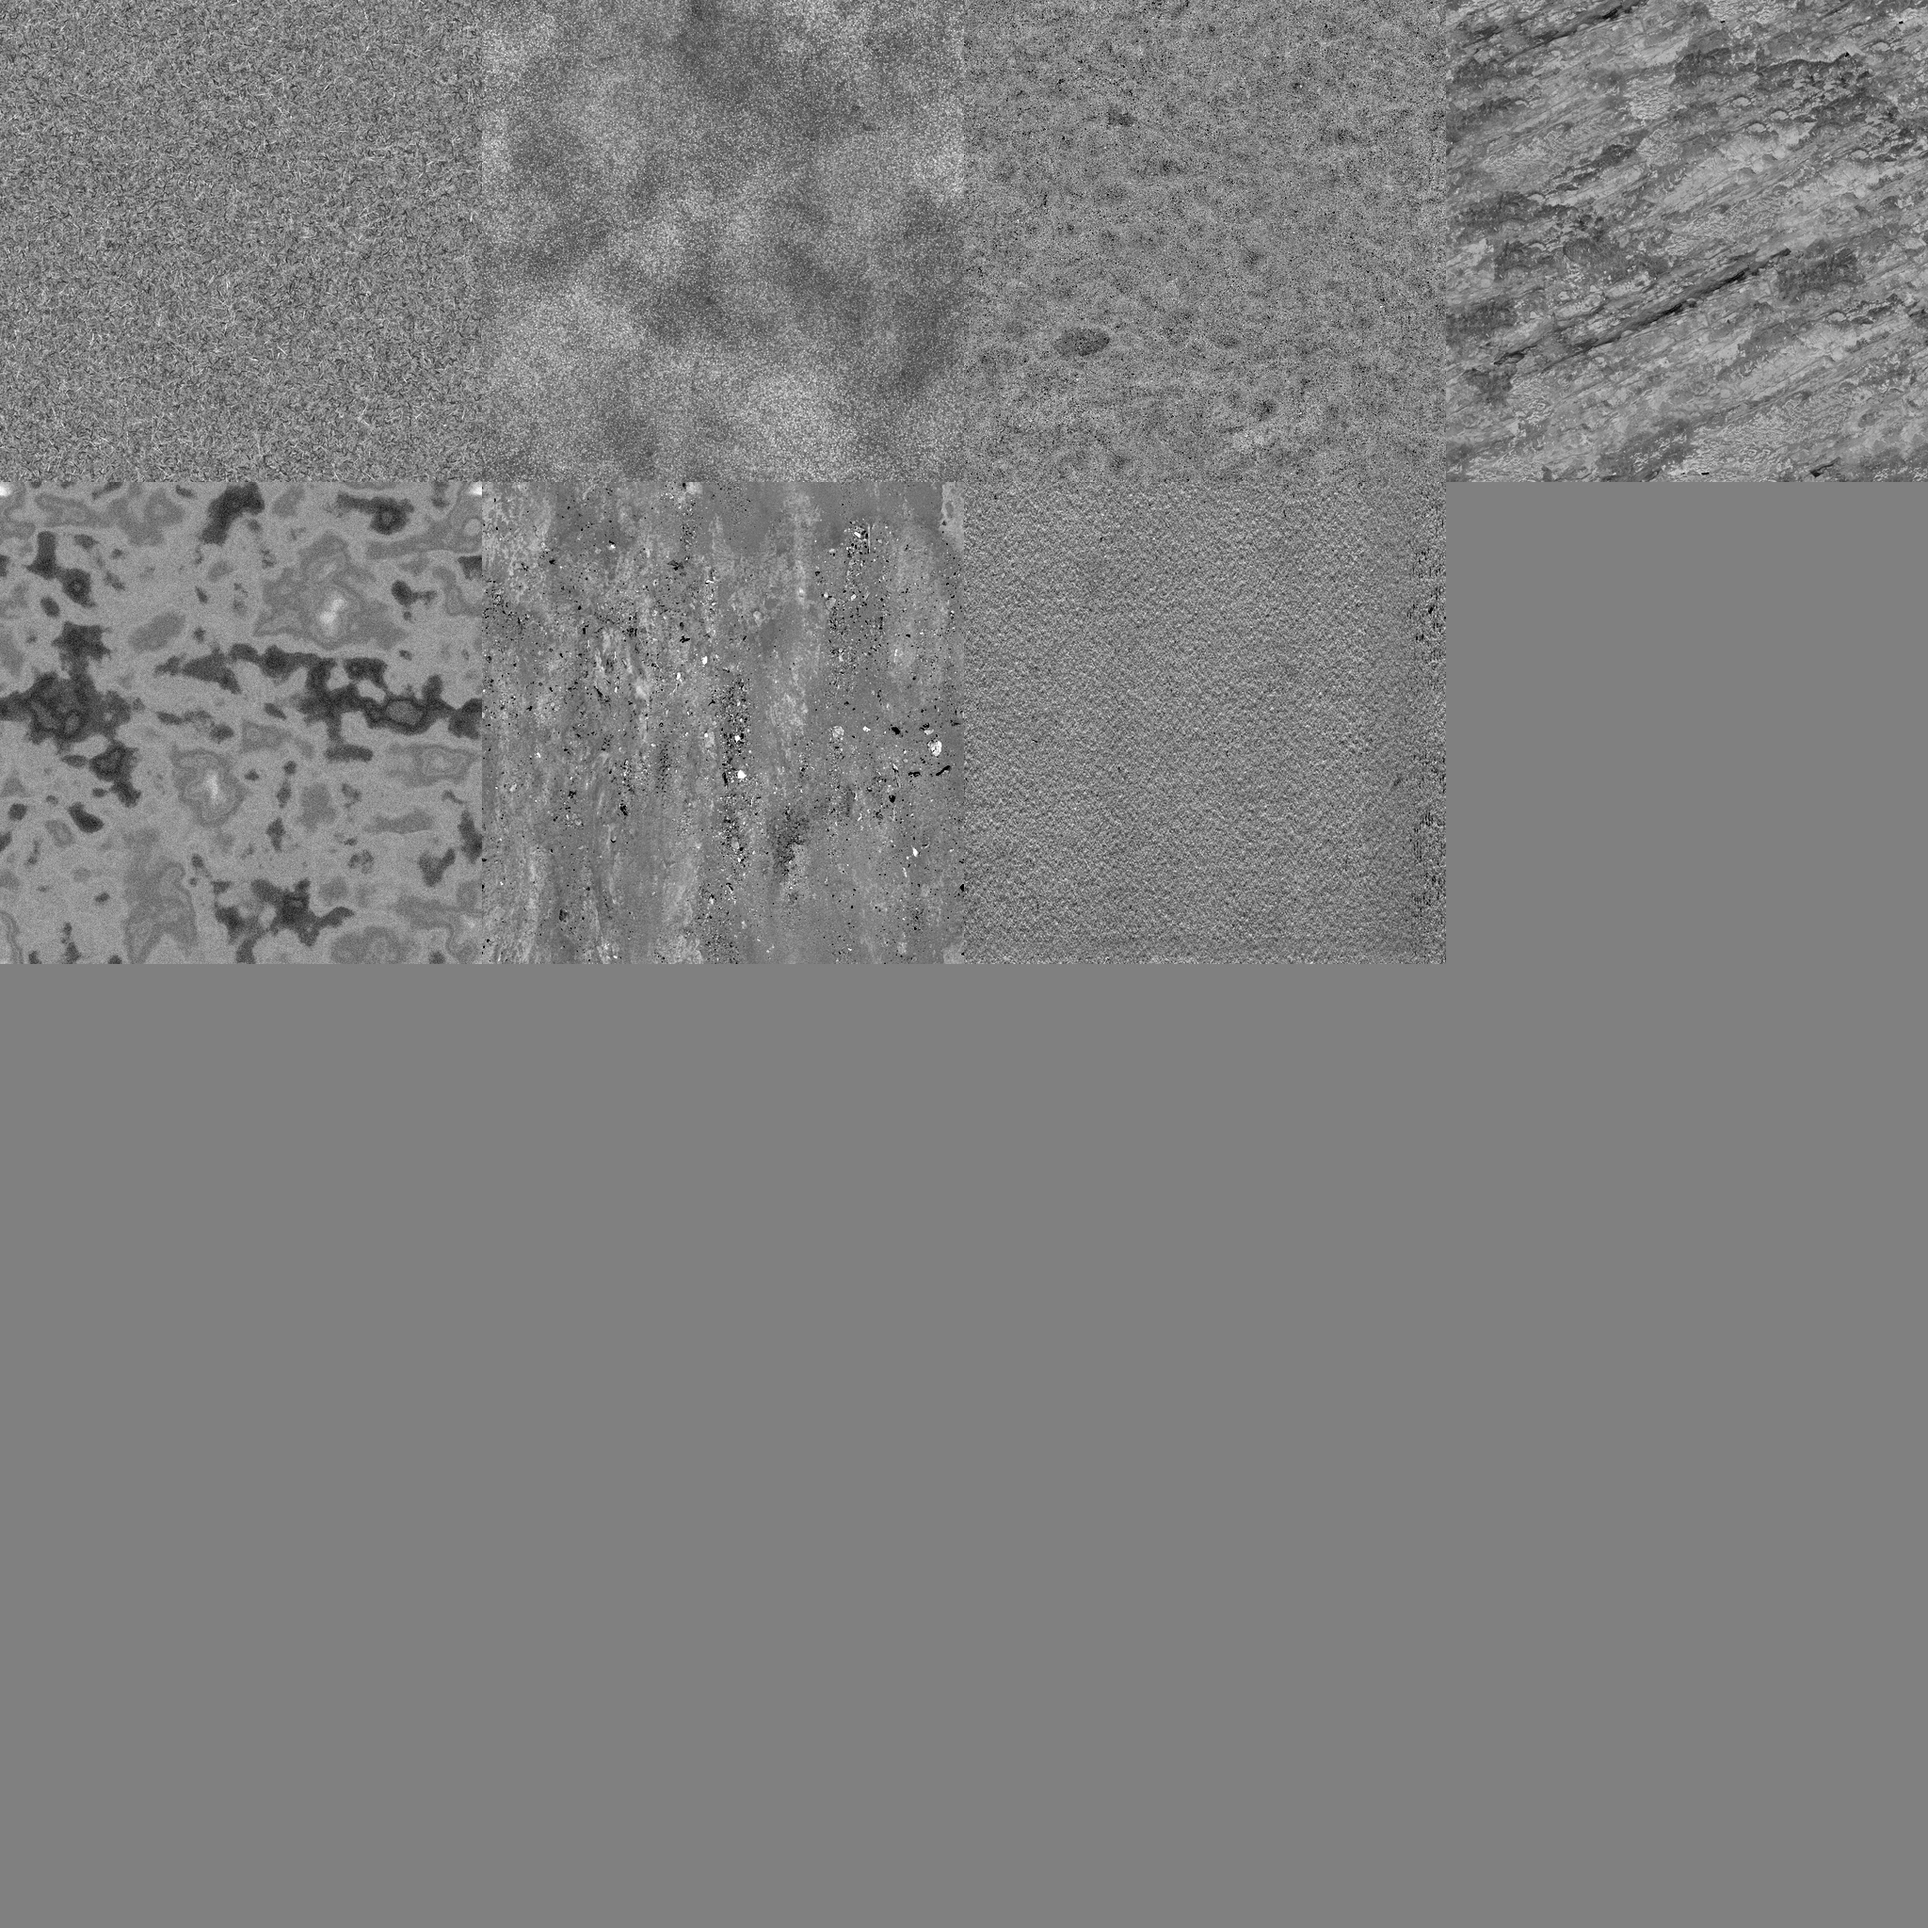
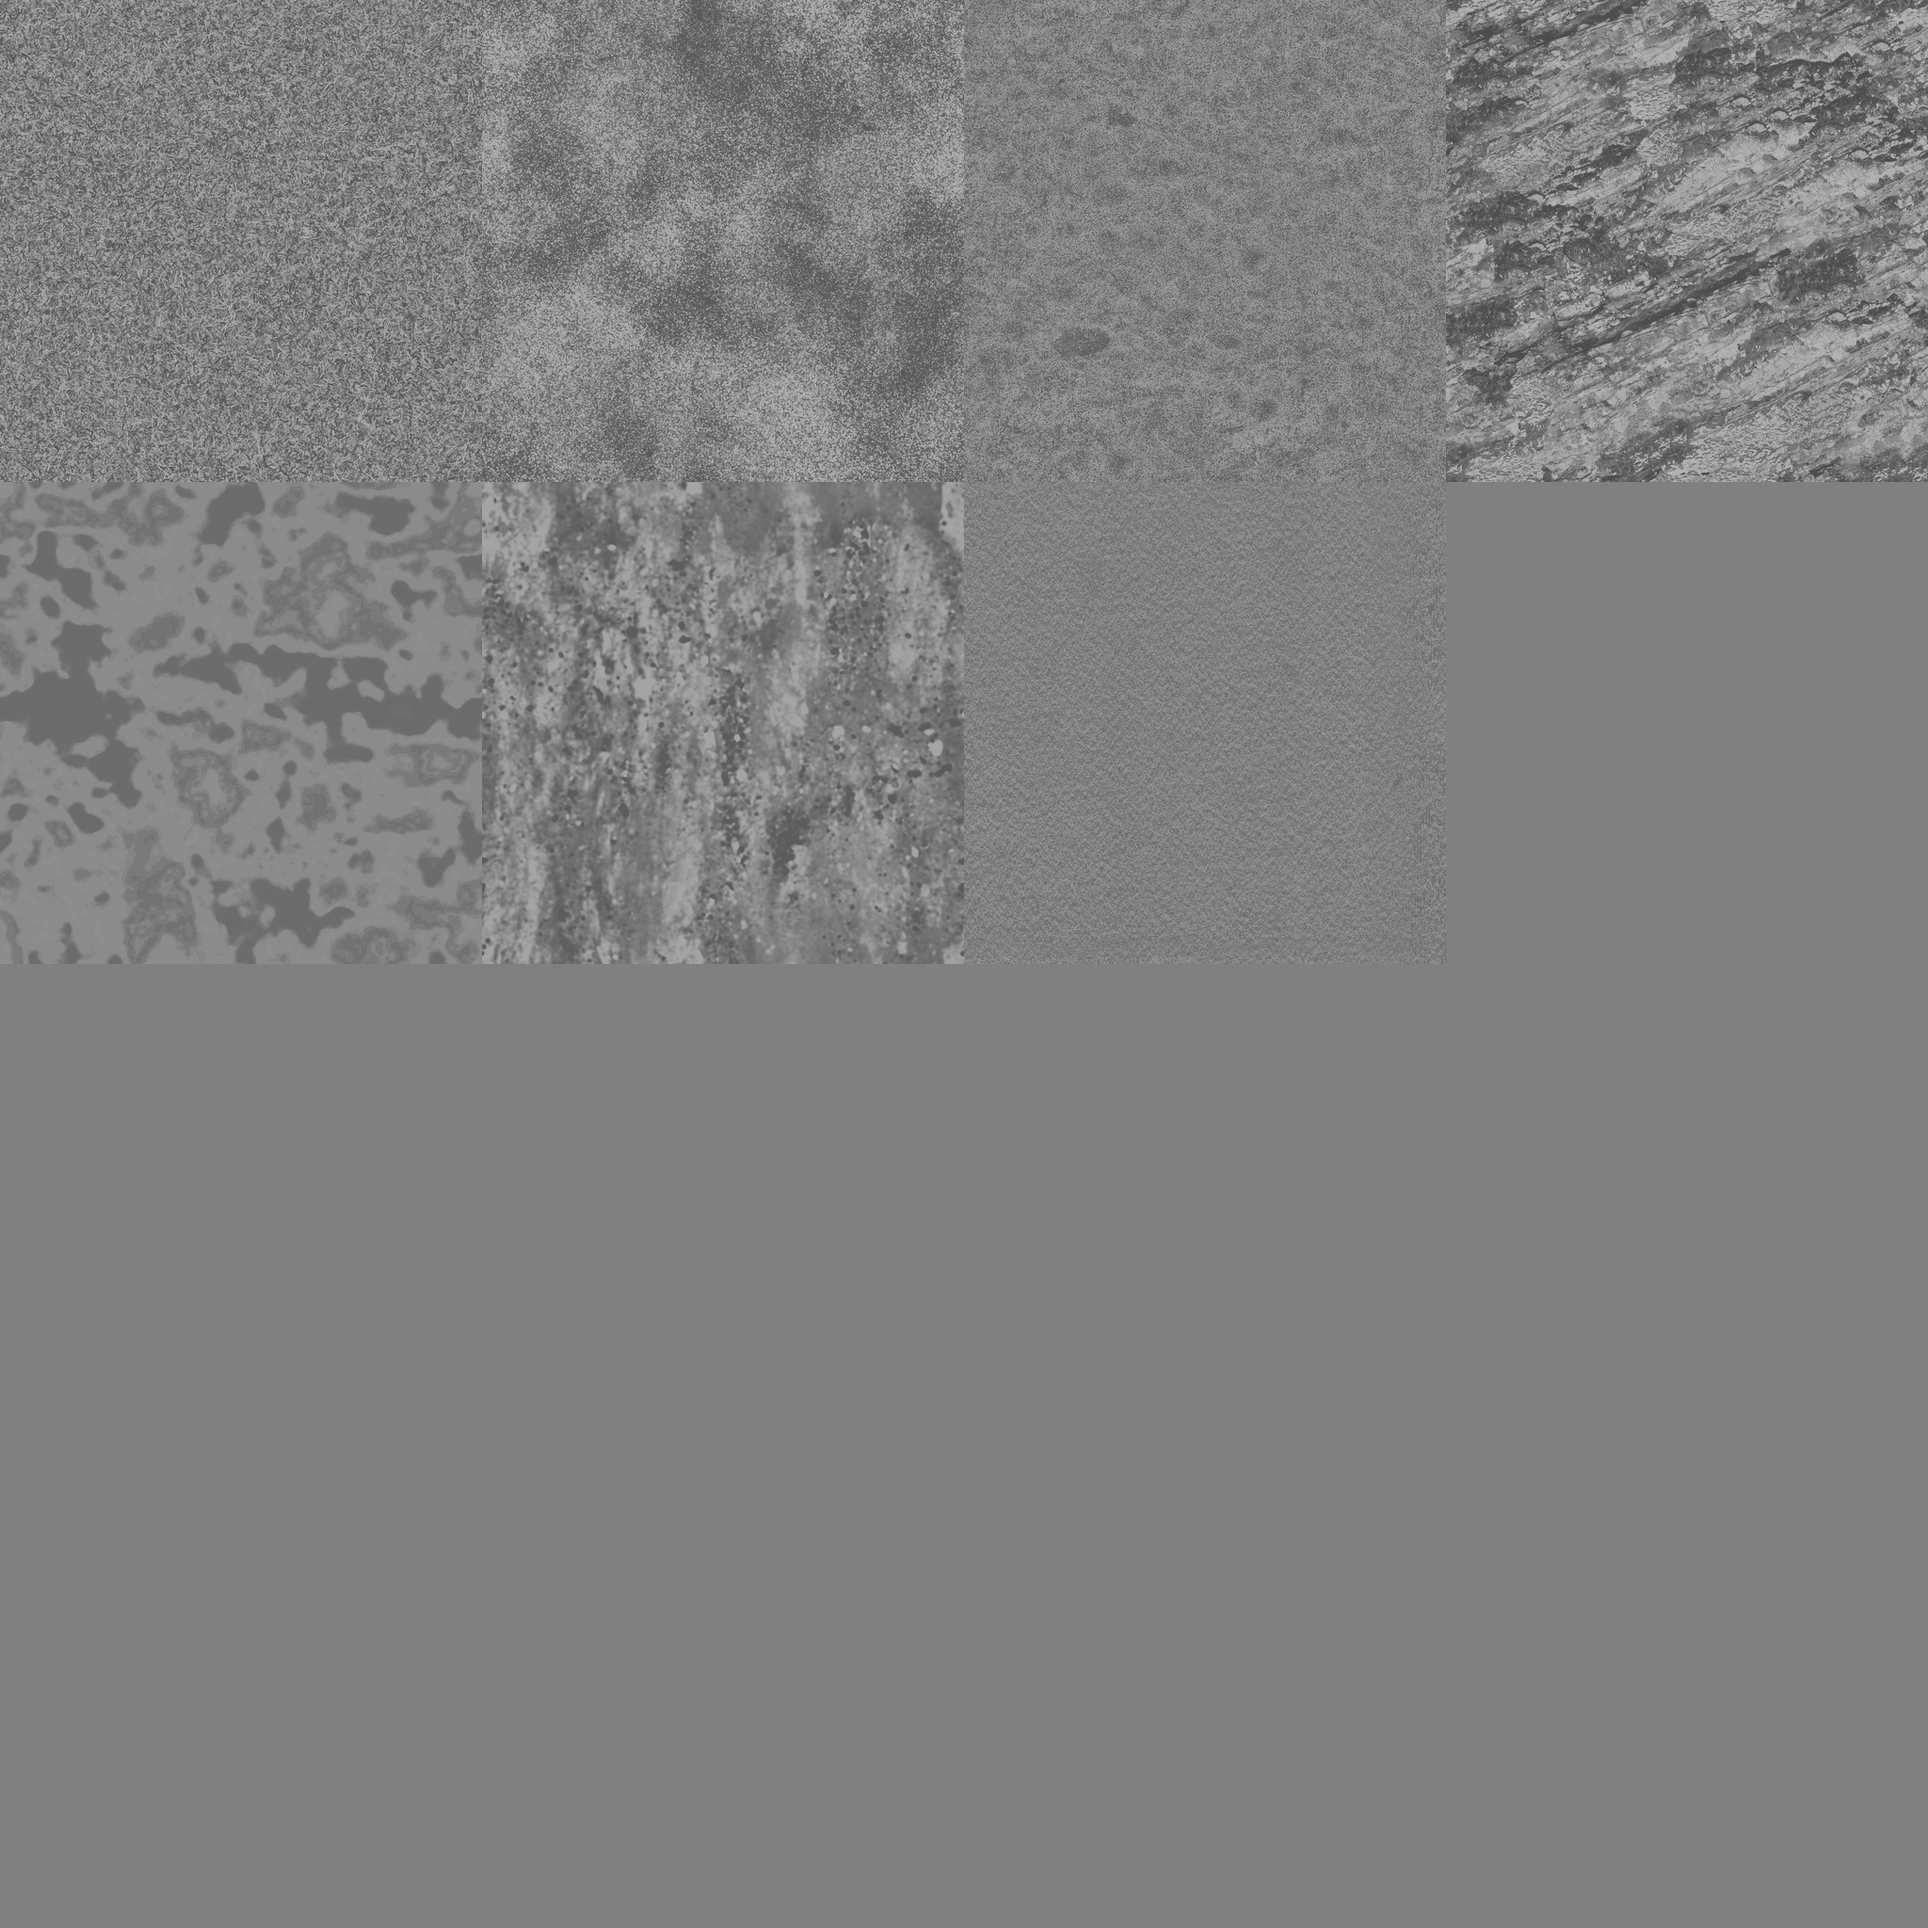
assets: спокойные текстуры снега и грязи

diff --git a/tests/render/assets.test.ts b/tests/render/assets.test.ts
@@ -1,5 +1,6 @@
 import { readdirSync, readFileSync } from 'node:fs';
 import { join } from 'node:path';
+import { inflateSync } from 'node:zlib';
 import { describe, expect, it } from 'vitest';
 import { ATLAS_GRID, DetailSlot, FONT_SERIF, TERRAIN_TEXTURES } from '../../src/render/assets';
 import { BIOMES } from '../../src/sim/world/types';
@@ -30,6 +31,74 @@ describe('atlas.png', () => {
     expect(buf.readUInt32BE(20)).toBe(2048);
     expect(buf[24]).toBe(8); // bit depth
     expect(buf[25]).toBe(0); // colour type 0 = grayscale
+  });
+});
+
+/** Decode an 8-bit grayscale non-interlaced PNG into raw pixels. */
+function decodeGray(buf: Buffer): { w: number; h: number; px: Uint8Array } {
+  const w = buf.readUInt32BE(16);
+  const h = buf.readUInt32BE(20);
+  const idat: Buffer[] = [];
+  for (let o = 8; o < buf.length; ) {
+    const len = buf.readUInt32BE(o);
+    if (buf.toString('latin1', o + 4, o + 8) === 'IDAT') idat.push(buf.subarray(o + 8, o + 8 + len));
+    o += 12 + len;
+  }
+  const raw = inflateSync(Buffer.concat(idat));
+  const px = new Uint8Array(w * h);
+  for (let y = 0; y < h; y++) {
+    const f = raw[y * (w + 1)] ?? 0;
+    for (let x = 0; x < w; x++) {
+      const v = raw[y * (w + 1) + 1 + x] ?? 0;
+      const a = x > 0 ? (px[y * w + x - 1] ?? 0) : 0;
+      const b = y > 0 ? (px[(y - 1) * w + x] ?? 0) : 0;
+      const c = x > 0 && y > 0 ? (px[(y - 1) * w + x - 1] ?? 0) : 0;
+      let pred = 0;
+      if (f === 1) pred = a;
+      else if (f === 2) pred = b;
+      else if (f === 3) pred = (a + b) >> 1;
+      else if (f === 4) {
+        const p = a + b - c;
+        const pa = Math.abs(p - a);
+        const pb = Math.abs(p - b);
+        const pc = Math.abs(p - c);
+        pred = pa <= pb && pa <= pc ? a : pb <= pc ? b : c;
+      }
+      px[y * w + x] = (v + pred) & 255;
+    }
+  }
+  return { w, h, px };
+}
+
+describe('atlas tile statistics', () => {
+  const { w, px } = decodeGray(readFileSync(join(ASSETS, 'terrain', 'atlas.png')));
+  const tile = 512;
+  const stats = (slot: number) => {
+    const x0 = (slot % ATLAS_GRID) * tile;
+    const y0 = Math.floor(slot / ATLAS_GRID) * tile;
+    let sum = 0;
+    let sq = 0;
+    for (let y = 0; y < tile; y++) {
+      for (let x = 0; x < tile; x++) {
+        const v = px[(y0 + y) * w + x0 + x] ?? 0;
+        sum += v;
+        sq += v * v;
+      }
+    }
+    const n = tile * tile;
+    const mean = sum / n;
+    return { mean, std: Math.sqrt(Math.max(sq / n - mean * mean, 0)) };
+  };
+  it('keeps used tiles muted: mean 120..136, std <= 30', () => {
+    for (const slot of Object.values(DetailSlot)) {
+      const s = stats(slot);
+      expect(s.mean, `slot ${slot} mean`).toBeGreaterThanOrEqual(120);
+      expect(s.mean, `slot ${slot} mean`).toBeLessThanOrEqual(136);
+      expect(s.std, `slot ${slot} std`).toBeLessThanOrEqual(30);
+    }
+  });
+  it('keeps snow very subtle: std <= 14', () => {
+    expect(stats(DetailSlot.SNOW).std).toBeLessThanOrEqual(14);
   });
 });
 

diff --git a/tools/build-terrain-atlas.py b/tools/build-terrain-atlas.py
@@ -4,18 +4,31 @@
 Usage: python tools/build-terrain-atlas.py <source-dir> [out.png]
 <source-dir> holds the ambientCG *_Color.jpg maps (<ID>_1K-JPG_Color.jpg).
 Colour comes from the biome palette in the shader; tiles carry only
-luminance detail (mean 128, std ~28).
+luminance detail (mean 128, per-slot std, see TARGET_STD).
+Tested with Python 3, Pillow 12.1.1, numpy 1.26.4.
+Exits non-zero if any tile's wrap-edge seam ratio exceeds MAX_SEAM.
 """
 import sys
 from pathlib import Path
 
 import numpy as np
-from PIL import Image
+from PIL import Image, ImageFilter
 
 TILE, GRID = 512, 4
-TARGET_MEAN, TARGET_STD = 128.0, 28.0
+TARGET_MEAN = 128.0
+MAX_SEAM = 1.5
 # Slot order, row-major; remaining slots are flat 128.
 SLOTS = ["Grass005", "Moss002", "Ground054", "Rock051", "Snow010A", "Ground087", "Paper001"]
+TARGET_STD = {
+    "Grass005": 22.0, "Moss002": 24.0, "Ground054": 16.0, "Rock051": 28.0,
+    "Snow010A": 12.0, "Ground087": 18.0, "Paper001": 10.0,
+}
+# Soft tonal compression scale (in sigmas): smaller squashes outliers harder.
+SOFT = {"Snow010A": 0.9}
+SOFT_DEFAULT = 2.0
+MEDIAN = {"Snow010A": 5}  # median filter size
+BLUR = {"Ground087": 1.2}  # gaussian sigma, px
+FLATTEN = {"Paper001": 40.0}  # subtract wrap-blurred low frequencies (sigma, px)
 
 
 def find(src: Path, tex_id: str) -> Path:
@@ -32,12 +45,59 @@ def seam(a: np.ndarray) -> float:
     return edge / max(inner, 1e-6)
 
 
-def make_tile(path: Path) -> np.ndarray:
-    img = Image.open(path).convert("RGB").resize((TILE, TILE), Image.LANCZOS).convert("L")
+def blur_wrap(a: np.ndarray, sigma: float) -> np.ndarray:
+    """Separable Gaussian blur that wraps around the edges (keeps tiles seamless)."""
+    r = int(sigma * 3) + 1
+    x = np.arange(-r, r + 1)
+    k = np.exp(-(x**2) / (2 * sigma**2))
+    k /= k.sum()
+    out = a
+    for axis in (0, 1):
+        p = np.pad(out, [(r, r) if i == axis else (0, 0) for i in range(2)], mode="wrap")
+        out = sum(k[i] * np.take(p, np.arange(i, i + a.shape[axis]), axis=axis) for i in range(len(k)))
+    return out
+
+
+def median_wrap(img: Image.Image, size: int) -> Image.Image:
+    pad = size
+    p = np.pad(np.asarray(img), pad, mode="wrap")
+    m = Image.fromarray(p, "L").filter(ImageFilter.MedianFilter(size))
+    return Image.fromarray(np.asarray(m)[pad:-pad, pad:-pad], "L")
+
+
+def crossfade_wrap(a: np.ndarray) -> np.ndarray:
+    """Hide residual seams: edges take the half-rolled image, centre the original."""
+    n = a.shape[0]
+    t = np.abs(np.linspace(-1, 1, n))  # 0 centre .. 1 edge
+    m = 0.5 + 0.5 * np.cos(np.pi * np.clip((t - 0.5) / 0.5, 0, 1))  # 1 inside, 0 at edge
+    m2 = m[:, None] * m[None, :]
+    return a * m2 + np.roll(a, (n // 2, n // 2), axis=(0, 1)) * (1 - m2)
+
+
+def make_tile(tex_id: str, path: Path) -> np.ndarray:
+    img = Image.open(path).convert("RGB").resize((TILE, TILE), Image.Resampling.LANCZOS).convert("L")
+    if tex_id in MEDIAN:
+        img = median_wrap(img, MEDIAN[tex_id])
     a = np.asarray(img, dtype=np.float64)
-    print(f"  {path.name}: seam ratio {seam(a):.2f} (~1 = seamless)")
-    a = (a - a.mean()) / max(a.std(), 1e-6) * TARGET_STD + TARGET_MEAN
-    return np.clip(np.rint(a), 0, 255).astype(np.uint8)
+    if tex_id in BLUR:
+        a = blur_wrap(a, BLUR[tex_id])
+    if tex_id in FLATTEN:
+        a = a - blur_wrap(a, FLATTEN[tex_id])
+    before = seam(a)
+    if before > 1.15:
+        a = crossfade_wrap(a)
+    lo, hi = np.percentile(a, [2, 98])
+    a = np.clip(a, lo, hi)
+    z = (a - a.mean()) / max(a.std(), 1e-6)
+    k = SOFT.get(tex_id, SOFT_DEFAULT)
+    z = np.tanh(z / k) * k
+    z = (z - z.mean()) / max(z.std(), 1e-6)
+    out = np.clip(np.rint(z * TARGET_STD[tex_id] + TARGET_MEAN), 0, 255)
+    s = seam(out)
+    print(f"  {tex_id}: seam {before:.2f} -> {s:.2f}, mean {out.mean():.1f}, std {out.std():.1f}")
+    if s > MAX_SEAM:
+        raise SystemExit(f"{tex_id}: wrap-edge seam ratio {s:.2f} > {MAX_SEAM}")
+    return out.astype(np.uint8)
 
 
 def main() -> None:
@@ -48,7 +108,7 @@ def main() -> None:
     atlas = np.full((TILE * GRID, TILE * GRID), 128, dtype=np.uint8)
     for i, tex_id in enumerate(SLOTS):
         r, c = divmod(i, GRID)
-        atlas[r * TILE:(r + 1) * TILE, c * TILE:(c + 1) * TILE] = make_tile(find(src, tex_id))
+        atlas[r * TILE:(r + 1) * TILE, c * TILE:(c + 1) * TILE] = make_tile(tex_id, find(src, tex_id))
     out.parent.mkdir(parents=True, exist_ok=True)
     Image.fromarray(atlas, "L").save(out, optimize=True)
     print(f"wrote {out} ({out.stat().st_size} bytes)")
